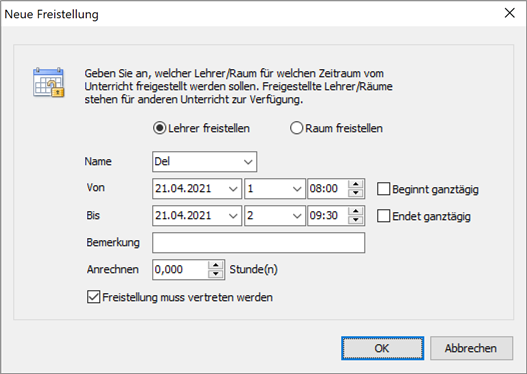
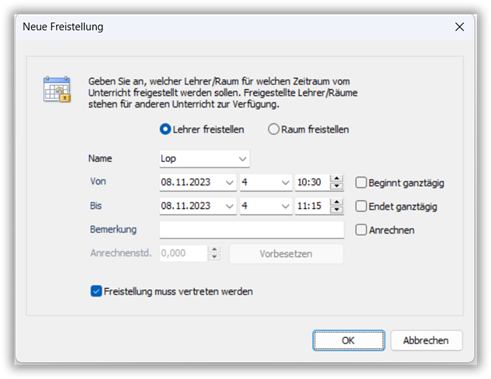
no message

diff --git a/docs/02.vertretungsplan/planaenderungen.md b/docs/02.vertretungsplan/planaenderungen.md
@@ -247,22 +247,21 @@ Welche Darstellung zum Tragen kommt hängt von der Bildschirmauflösung ab. Ist 
 
 ## Lehrer und Raum freistellen
 
-Sie haben im Zusammenhang mit der Zuweisung eines indirekten Vertreters bereits die Möglichkeit kennengelernt, einen Lehrer von seinen planmäßigen Unterrichtsverpflichtungen freizustellen. Die Option, einen Lehrer freizustellen, wird Ihnen standardmäßig angeboten, wenn Sie einen indirekten Vertreter zuweisen. Darüber hinaus besteht die Möglichkeit, einen Lehrer direkt im Planungsfenster der Vertretungsansicht freizustellen. Außerdem steht dort die Funktion des Freistellens nicht nur für Lehrer, sondern auch für Räume zur Verfügung. Sie können für jeden Plantermin entscheiden, ob Sie nur eines oder zwei dieser Terminelemente freistellen möchten. Die Konsequenz ist jeweils, dass der entsprechende Termin in der Fehlzeiten-Liste zur Vertretung angeboten wird.
+Sie haben im Zusammenhang mit der Zuweisung eines indirekten Vertreters bereits die Möglichkeit kennengelernt, einen Lehrer von seinen planmäßigen Unterrichtsverpflichtungen freizustellen. Die Option, einen Lehrer freizustellen, wird Ihnen standardmäßig angeboten, wenn Sie einen indirekten Vertreter zuweisen. 
+
+Darüber hinaus besteht die Möglichkeit, einen Lehrer direkt im Planungsfenster der Vertretungsansicht freizustellen. Außerdem steht dort die Funktion des Freistellens nicht nur für Lehrer, sondern auch für Räume zur Verfügung. Sie können entscheiden, für welchen Zeitraum das Element freigestellt wird. Für die Lehrkräfte können Sie für die Freistellung wahlweise Anrechenstunden hinterlegen. Die Konsequenz ist jeweils, dass der entsprechende Termin in der Fehlzeiten-Liste zur Vertretung angeboten wird.
 
 Worin besteht nun eigentlich der Unterschied zwischen einer normalen Fehlzeit, die Sie in der Fehlzeiten Ansicht erfassen und einer Freistellung? Mit einer Freistellung heben Sie, genauso wie bei einer normalen Fehlzeit, die Zuordnung eines Teilnehmers zu einem bestimmten Termin auf. Im Gegensatz zu einer normalen Fehlzeit, bedeutet aber eine Freistellung, dass der zugehörige Terminteilnehmer für parallel liegende Termine als potenzieller Vertreter zur Verfügung steht.
 
 Um Lehrer bzw. Räume im Planfenster freizustellen, gehen Sie bitte folgendermaßen vor:
 
 1. Rufen Sie den gewünschten Einzelplan auf.
-
 2.  Klicken Sie mit der linken Maustaste auf das gewünschte Terminfeld und betätigen Sie die Schaltfläche `Freistellen` in der Menügruppe `Start > Änderungen`.
-![Freistellen](/assets/images/vertretungsplan/vp21.png)
-4. Wählen Sie im erscheinenden Dialogfenster `Freistellen`, ob die Lehrer oder die Räume des Planobjektes freigestellt werden sollen.
-
-[![Im Dialogfenster "Freistellen" legen Sie fest, ob Lehrer und/ oder Räume des gewählten Termins freigestellt werden.][169]][169]
-
-5. Tragen Sie in den Eingabefeldern `Von` und `Bis` den Anfangs- und Endpunkt des Freistellungszeitraums
-  ein.
+[![Freistellen][170]][170]<br>
+3. Wählen Sie im erscheinenden Dialogfenster `Freistellen`, ob die Lehrer oder die Räume des Planobjektes freigestellt werden sollen.
+[![Im Dialogfenster "Freistellen" legen Sie fest, ob Lehrer und/ oder Räume des gewählten Termins freigestellt werden.][169]][169]<br>
+4. Tragen Sie in den Eingabefeldern `Von` und `Bis` den Anfangs- und Endpunkt des Freistellungszeitraums ein.
+5. Wählen Sie optinal `Ànrechnen`und dann `Vorbesetzen` wenn die entstandenen Stunden angerechnet werden sollen.
 6. Ergänzen Sie im Eingabefeld `Bemerkung` optional einen Infotext, der in der Spalte `Bemerkung` der erzeugten Fehlzeiten-Zeile ausgegeben werden soll.
 7. Bestätigen Sie Ihre Angaben abschließend mit `OK`.
 
@@ -311,4 +310,5 @@ Um eine neue Raumbuchung einzufügen gehen Sie bitte folgendermaßen vor:
 [167]:/assets/images/vertretungsplan/sub-plan167.png
 [168]:/assets/images/vertretungsplan/sub-plan168.png
 [169]:/assets/images/vertretungsplan/sub-plan169.png
+[170]:/assets/images/vertretungsplan/sub-plan170.png
 

diff --git a/docs/08.analytics/aenderungen.md b/docs/08.analytics/aenderungen.md
@@ -34,9 +34,7 @@ Die Übersicht unterscheidet Vertretungen durch Lehrer von Vertretungen durch Er
 * `Extras > Schlüsselverzeichnisse > Lehrerarten`
 * `Extras > Schlüsselverzeichnisse > Vertretungsentfallgründe`
 
-Im Bereich „Filter“ können Sie angeben, über welchen Lehrerarten-Schlüssel ein „Lehrer“ ausgezeichnet wurde und welcher Entfallgrund-Schlüssel „Selbstorgansiertes Lernen“ kennzeichnet. Sie müssen dazu jeden Lehrer in
-der Ansicht ``Stammdaten > Lehrer`` in der Spalte „Art“ als „Lehrer“, „Betreuer“, „Erzieher“ oder anders kennzeichnen. Den Entfallgrund weisen Sie bei der Erstellung eines Entfalls in der Ansicht ``Vertretungsplan > Vertretungen`` im entsprechenden Dialogfenster zu. Bitte beachten Sie,
-dass eine Reihe der Filterangaben nach dem Schlüssel und nicht nach dem Kürzel filtern, d.h. Sie sollten entsprechend die Spalte „Schlüssel“ in den Verzeichnissen ``Lehrerarten`` und ``Vertretungsentfallgründe`` gefüllt haben. Standardmäßig können Sie den Wert aus der Spalte „Kürzel“ in die Spalte „Schlüssel“ übertragen.
+Im Bereich „Filter“ können Sie angeben, über welchen Lehrerarten-Schlüssel ein „Lehrer“ ausgezeichnet wurde und welcher Entfallgrund-Schlüssel „Selbstorgansiertes Lernen“ kennzeichnet. Sie müssen dazu jeden Lehrer in der Ansicht ``Stammdaten > Lehrer`` in der Spalte „Art“ als „Lehrer“, „Betreuer“, „Erzieher“ oder anders kennzeichnen. Den Entfallgrund weisen Sie bei der Erstellung eines Entfalls in der Ansicht ``Vertretungsplan > Vertretungen`` im entsprechenden Dialogfenster zu. Bitte beachten Sie, dass eine Reihe der Filterangaben nach dem Schlüssel und nicht nach dem Kürzel filtern, d.h. Sie sollten entsprechend die Spalte „Schlüssel“ in den Verzeichnissen ``Lehrerarten`` und ``Vertretungsentfallgründe`` gefüllt haben. Standardmäßig können Sie den Wert aus der Spalte „Kürzel“ in die Spalte „Schlüssel“ übertragen.
 
 ### Bereich Zeit
 

diff --git a/docs/00.allgemein/datensicherung.md b/docs/00.allgemein/datensicherung.md
@@ -56,5 +56,5 @@ Das Erstellen der externen Sicherungskopien sollte in die Cloud (das Internet), 
 Ihre Sicherungskopie enthält den Namen Ihrer ursprünglichen Datei, das aktuelle Jahr, die Nummer des Tages im Jahr und die Endung ``.BACKUP``. (z.B. Beispiel.2018-04-20-00.backup)
 Um eine Sicherungskopie wieder herzustellen müssen Sie Ihre Datei im Windows-Explorer in eine ``*.daVinci`` Datei umbenennen. Löschen Sie dazu den Punkt, die Zahl und die .BACKUP-Endung.
 
-Soll die Datei für alle Nutzer wieder zur Verfügung gestellt werden, laden Sie diese bitte über den  Sie dies bereits im letzten Jahr getan öffnen Sie das Modul `DAVINCI Explorer >  Plandateien` über die Schaltfläche Hochladen auf den den bestehenden Platzhalter.  
+Soll die Datei für alle Nutzer wieder zur Verfügung gestellt werden, laden Sie diese bitte über den  DAVINCI Explorer hoch. Bitte laden Sie die Datei über das Modul `DAVINCI Explorer >  Plandateien` über die Schaltfläche Hochladen auf den den bestehenden Platzhalter.  
 

diff --git a/docs/00.allgemein/changelog.md b/docs/00.allgemein/changelog.md
@@ -36,6 +36,13 @@ CHANGE|  Änderung des Ablaufs, Verarbeitung oder Bedienung
 
 ### Allgemein
 
+* FIX: `Importieren > Exportieren > Export für Schulportal Hessen` Export INformationen bei Freistellungen von Lehrkräften
+
+### Vertretungsplan
+
+CHANGE: Freistellen von Lehrkräften ganztägig oder über mehrere Position möglich, optional können die freigestlleten Stunden angerechnet werden `Start > Änderungen > Freistellen` und `Vertretungsplan > Anrechnungen`
+FIX: Anrechstunden für freigestellte Lehrkräfte `Vertretungsplan > Anrechnungen`und `Start > Änderungen > Freistellen`
+
 
 ## DAVINCI Version 6.5.84 (28.08.2023)
 
